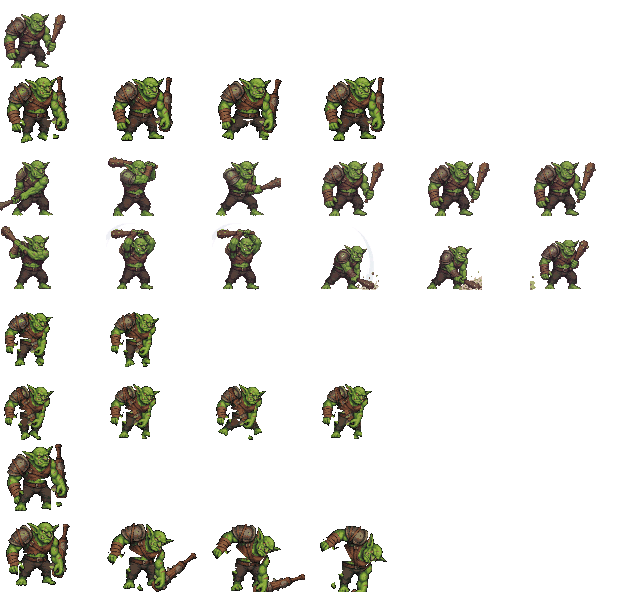
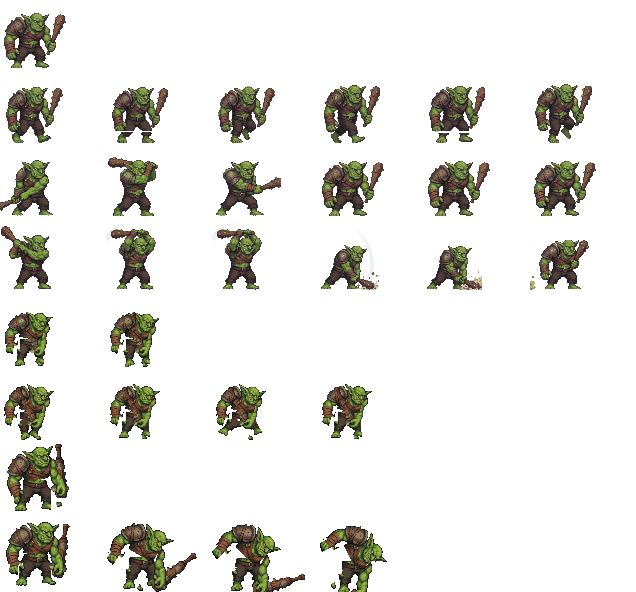
The Brute's walk is drawn, not puppeted - and the club rides head-up
Per direction, the walk cycle is now Gemini-redrawn like the swings:
the stick-figure pose guide (committed alongside) carried the exact
hold from the approved idle - club in ONE hand, head UP, forward of
the shoulder - through six genuinely different stride poses with real
knee lifts and heavy footfalls. The old rig walk hid the club head
behind the pauldron, which read as carrying it upside down.

Walk row goes 4 -> 6 frames at 7fps. Same keying/scale/bake pipeline
as the attack rows (magenta key, rim defringe, ground-line strip,
levels off). 164/164 tests green.

diff --git a/src/gfx/actorSheets.js b/src/gfx/actorSheets.js
@@ -107,7 +107,7 @@ const DEFS = {
     scale: 1 / COMBAT_ACTOR_SCALE, logicalHeight: 26, shadowRadius: 15,
     anims: {
       idle:       { row: 0, frames: 1, fps: 1, loop: true },
-      walk:       { row: 1, frames: 4, fps: 5, loop: true },
+      walk:       { row: 1, frames: 6, fps: 7, loop: true },
       attack:     { row: 2, frames: 6, fps: 6, loop: false },
       slam:       { row: 3, frames: 6, fps: 5, loop: false },
       chargewind: { row: 4, frames: 2, fps: 6, loop: true },
